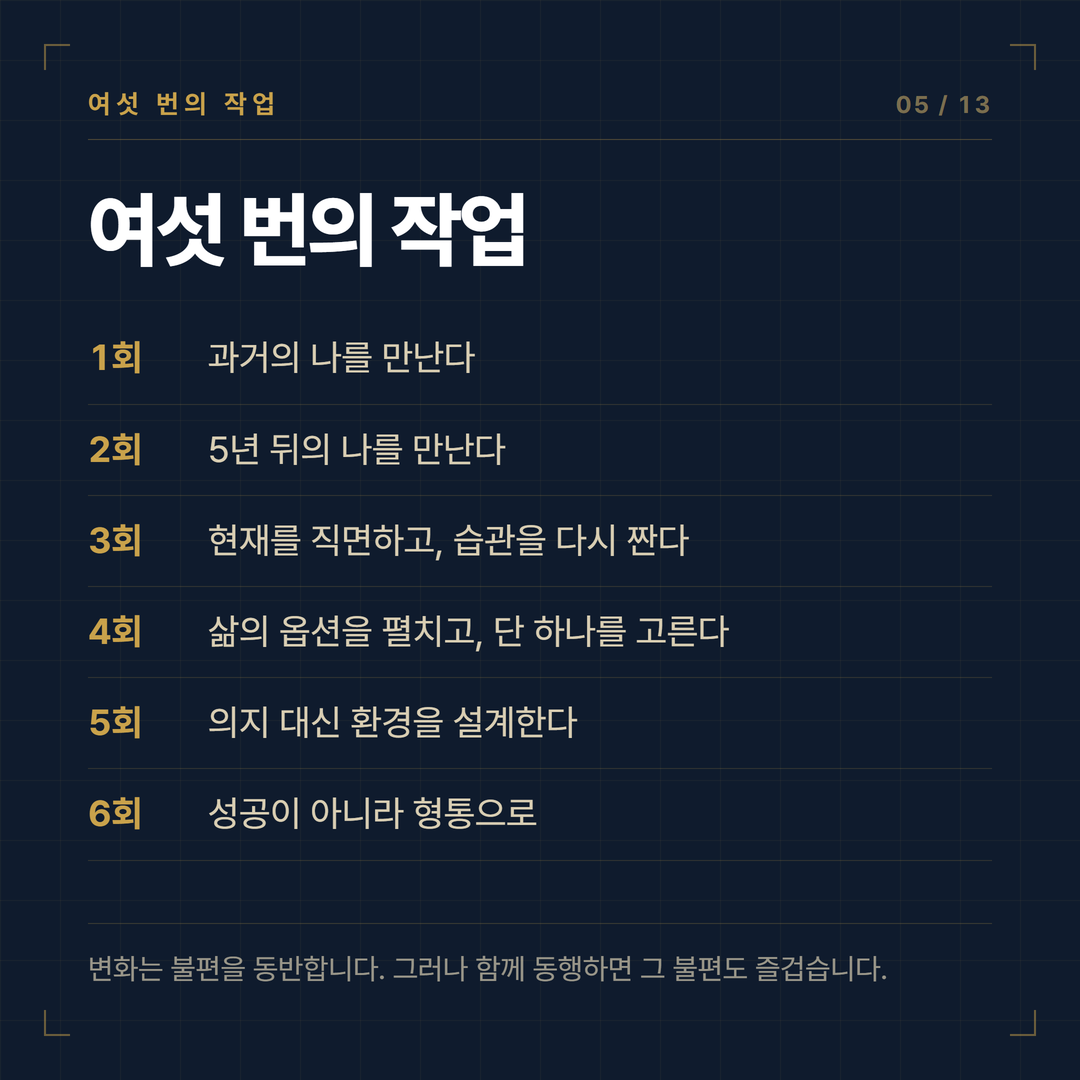
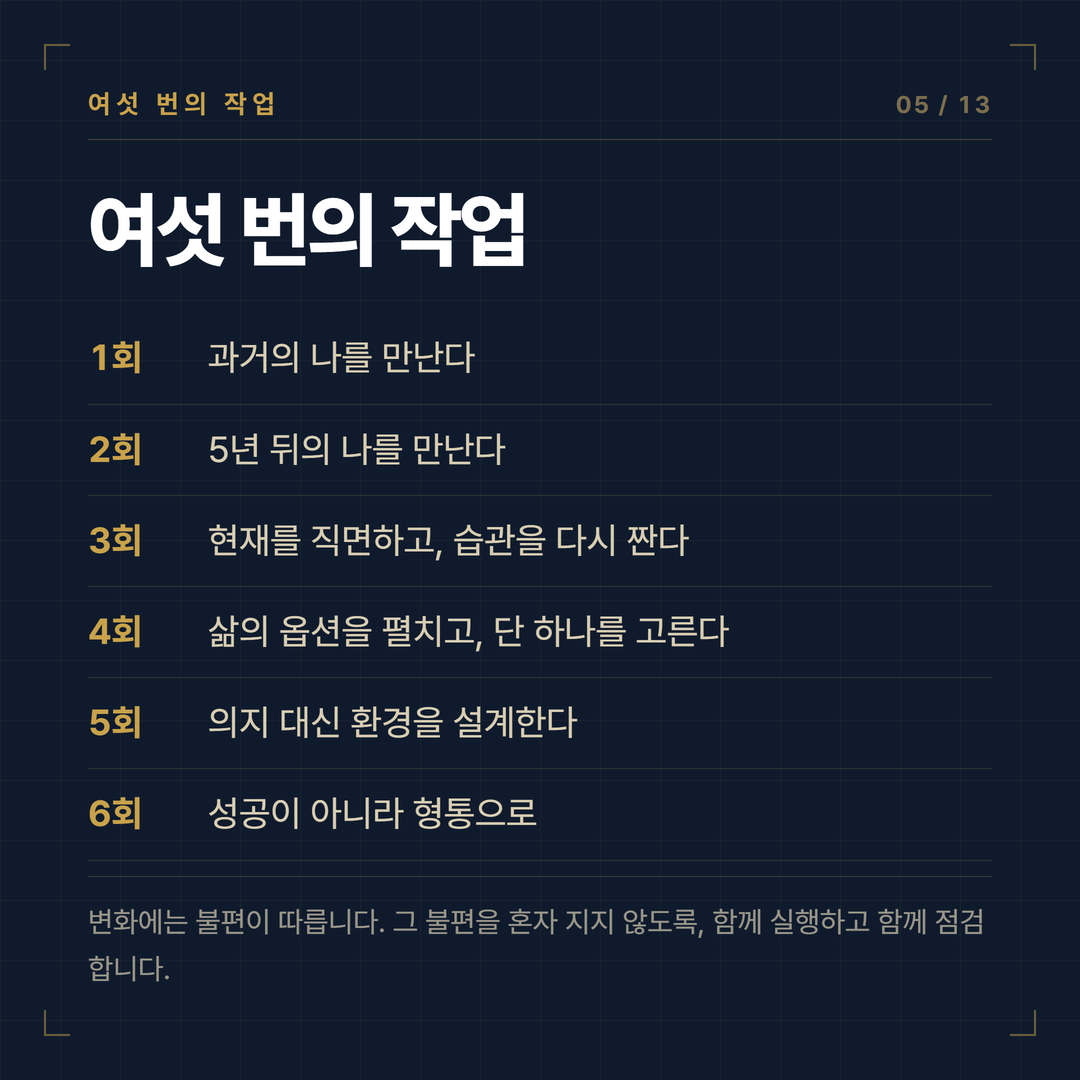
feat(copy): §2 모집 10건 — 랜딩·시안·원고·카드 이미지 동시
표 §2 의 동시 배포 조건 그대로. 문구만 나가면 카카오톡으로 도는 카드와
랜딩이 서로 다른 말을 한다.

- R-01~R-10 을 recruit/copy.ts 에
- 같은 문장을 시안 HTML 과 모집 원고 확정본에도(정본이 셋이면 셋이 같아야 한다)
- 카드 이미지 13장 재생성 · 넘침 경고 0 · 파생 webp 4장 재생성
- R-10 대시 0 확인(링크 미리보기에 그대로 나간다)
- 코드·시안 10/10 일치 확인

★ renderCards.mjs 신설 — 이 기계에 파이썬 playwright 가 없다.
  원본 render_cards.py 의 규칙을 한 줄도 바꾸지 않고 옮겼다(배율·껍데기 숨김·
  2배 후 축소·fonts.ready·넘침 재검사).
★ recruit-cards.mjs 의 cards.ts 경로가 U-1 이후 낡아 있었다 — 고쳤다.

Changed region(s): [[0.0611, 0.825, 0.9167, 0.9167]]

diff --git a/src/app/(public)/recruit/copy.ts b/src/app/(public)/recruit/copy.ts
@@ -19,14 +19,14 @@ export const PROBLEM = {
   title: ['계획은', '매년 세웠다'],
   lead: ['새해마다 목표를 적는다.', '3월이면 사라진다.'],
   body: ['작년에도 그랬고,', '올해도 그러고 있다.'],
-  emph: '의지가 약해서가 아닙니다.',
+  emph: '의지의 문제가 아닙니다.',
   title2: ['방향이 없으면', '속도는 의미가 없다'],
   marks: [
     '무엇을 할지는 알겠는데, 왜 하는지가 흐릿하다',
     '하루가 바쁜데 손에 남는 것이 없다',
     '"5년 뒤에 어떻게 되고 싶으세요" 앞에서 말이 막힌다',
   ],
-  closing: '게으름의 문제가 아니라',
+  closing: '게으름이 아니라',
   closingGold: '설계의 문제입니다.',
 } as const;
 
@@ -39,7 +39,7 @@ export const WHAT = {
     { term: '설계도', text: '삶의 5대 영역에 대한 구체적인 목표' },
   ],
   lead: '6주 동안 하는 일은 하나다.',
-  leadEmph: '흐릿했던 5년 후를 가슴 뛰는 선명한 미래로 바꾸는 것.',
+  leadEmph: '흐릿한 5년 후를 오늘의 한 걸음으로 잇는 것.',
   modelLabel: '코칭 모델 GROW + F',
   modelWords: '과거 · 미래 · 현재 · 선택 · 실행 · 믿음',
   foot: '기반 도서 『퓨처나우』(이승은) · 『퓨처셀프』(벤자민 하디)',
@@ -57,7 +57,7 @@ export const JOURNEY = {
     { no: '5회', what: '의지 대신 환경을 설계한다' },
     { no: '6회', what: '성공이 아니라 형통으로' },
   ],
-  foot: '변화는 불편을 동반합니다. 그러나 함께 동행하면 그 불편도 즐겁습니다.',
+  foot: '변화에는 불편이 따릅니다. 그 불편을 혼자 지지 않도록, 함께 실행하고 함께 점검합니다.',
 } as const;
 
 /** 카드 6 — 무엇이 남는가. strong 구간을 데이터로 나눠 둔다(마크업에 문장을 쪼개 넣지 않으려고). */
@@ -72,7 +72,7 @@ export const RESULT = {
     { pre: '의지 없이도 굴러가는 ', strong: '환경 설계도', post: '' },
     { pre: '결심이 아니라 ', strong: '행동으로 남은 6주', post: '' },
   ],
-  foot: '워크북은 증정합니다. 인생의 나침반이 되어 줄 것입니다.',
+  foot: '워크북은 6주 동안의 생각과 선택을 한곳에 남기는 도구입니다.',
 } as const;
 
 /** 카드 7 — 1기 참여자의 말 */
@@ -89,19 +89,19 @@ export const VOICES = {
 /** 카드 8 — 온라인 동행 */
 export const ONLINE = {
   eyebrow: '온라인 동행',
-  title: '혼자 걷게 두지 않는다',
+  title: '같은 방향으로 함께 걷는다',
   blocks: [
     {
       head: '시작 전 · 사전 체크',
-      body: '편안히 마음을 나누도록 설계된 질문들. 인도자가 당신이 지금 어디에 서 있는지 먼저 읽고 시작한다. 10명만 받는 이유가 여기에 있다.',
+      body: '시작 전, 지금의 자리와 바라는 변화를 정리한다. 인도자는 이 기록을 읽고 첫 모임을 준비한다. 10명만 받는 이유가 여기에 있다.',
     },
     {
       head: '매 회차 뒤 · 갈무리',
-      body: '모임에서 만든 것을 온라인에 남긴다. 지난주에 정한 한 걸음이 이번 주 화면에 다시 올라온다.',
+      body: '모임에서 정한 것을 갈무리에 기록한다. 지난주에 정한 한 걸음이 이번 주 화면에 다시 올라온다.',
     },
     {
       head: '6주 뒤 · 마무리 체크',
-      body: '시작과 마무리를 나란히 놓는다. 느낌이 아니라 기록으로 확인한다.',
+      body: '시작과 마무리의 기록을 나란히 놓고, 변화의 방향을 확인합니다.',
     },
   ],
   foot: '적으신 내용은 세미나 인도자와 운영자만 봅니다.',
@@ -179,5 +179,5 @@ export const SITE_ORIGIN = 'https://future.yebom.org';
 /** 브라우저 탭·카톡 링크 미리보기(발주서 §3.7). */
 export const META = {
   title: '퓨처나우 예봄 2기 참가 신청',
-  description: '꿈꾸는 미래를 지금 살자 — 6주 셀프코칭 세미나. 선착순 10명.',
+  description: '꿈꾸는 미래를 지금 살자 · 6주 셀프코칭 세미나 · 선착순 10명',
 } as const;

diff --git a/src/app/(public)/recruit/recruit.test.ts b/src/app/(public)/recruit/recruit.test.ts
@@ -268,7 +268,9 @@ describe('참여자 표면 금지어', () => {
 describe('메타 — 카톡 링크 미리보기 (발주서 §3.7)', () => {
   it('제목·설명이 발주서 원문이다', () => {
     expect(META.title).toBe('퓨처나우 예봄 2기 참가 신청');
-    expect(META.description).toBe('꿈꾸는 미래를 지금 살자 — 6주 셀프코칭 세미나. 선착순 10명.');
+        // **R-10 으로 바뀌었다** — 대시를 쓰지 않는다(카카오톡 링크 미리보기에 그대로 노출된다).
+    expect(META.description).toBe('꿈꾸는 미래를 지금 살자 · 6주 셀프코칭 세미나 · 선착순 10명');
+    expect(META.description).not.toMatch(/[—–]/);
   });
 
   it('metadataBase 가 절대 URL 이다 — 없으면 미리보기 이미지가 localhost 를 가리킨다', () => {

diff --git a/docs/tasks/예봄2기_모집카드뉴스_원고_확정 (1).md b/docs/tasks/예봄2기_모집카드뉴스_원고_확정 (1).md
@@ -50,7 +50,7 @@
 작년에도 그랬고,
 올해도 그러고 있다.
 
-**의지가 약해서가 아닙니다.**
+**의지의 문제가 아닙니다.**
 
 ---
 
@@ -63,7 +63,7 @@
 - 하루가 바쁜데 손에 남는 것이 없다
 - "5년 뒤에 어떻게 되고 싶으세요" 앞에서 말이 막힌다
 
-게으름의 문제가 아니라
+게으름이 아니라
 **설계의 문제입니다.**
 
 ---
@@ -77,7 +77,7 @@
 설계도 : 삶의 5대 영역에 대한 구체적인 목표
 
 6주 동안 하는 일은 하나다.
-**흐릿했던 5년 후를 가슴 뛰는 선명한 미래로 바꾸는 것.**
+**흐릿한 5년 후를 오늘의 한 걸음으로 잇는 것.**
 
 코칭 모델 GROW + F
 과거 · 미래 · 현재 · 선택 · 실행 · 믿음
@@ -101,7 +101,7 @@
 | 5회 | 의지 대신 환경을 설계한다 |
 | 6회 | 성공이 아니라 형통으로 |
 
-〔하단 작은 글씨〕 변화는 불편을 동반합니다. 그러나 함께 동행하면 그 불편도 즐겁습니다.
+〔하단 작은 글씨〕 변화에는 불편이 따릅니다. 그 불편을 혼자 지지 않도록, 함께 실행하고 함께 점검합니다.
 
 ---
 
@@ -116,7 +116,7 @@
 - 의지 없이도 굴러가는 **환경 설계도**
 - 결심이 아니라 **행동으로 남은 6주**
 
-〔하단 작은 글씨〕 워크북은 증정합니다. 인생의 나침반이 되어 줄 것입니다.
+〔하단 작은 글씨〕 워크북은 6주 동안의 생각과 선택을 한곳에 남기는 도구입니다.
 
 ---
 
@@ -140,16 +140,16 @@
 
 ## 카드 8 · 온라인 동행
 
-**혼자 걷게 두지 않는다**
+**같은 방향으로 함께 걷는다**
 
 **시작 전 · 사전 체크**
-편안히 마음을 나누도록 설계된 질문들. 인도자가 당신이 지금 어디에 서 있는지 먼저 읽고 시작한다. 10명만 받는 이유가 여기에 있다.
+시작 전, 지금의 자리와 바라는 변화를 정리한다. 인도자는 이 기록을 읽고 첫 모임을 준비한다. 10명만 받는 이유가 여기에 있다.
 
 **매 회차 뒤 · 갈무리**
-모임에서 만든 것을 온라인에 남긴다. 지난주에 정한 한 걸음이 이번 주 화면에 다시 올라온다.
+모임에서 정한 것을 갈무리에 기록한다. 지난주에 정한 한 걸음이 이번 주 화면에 다시 올라온다.
 
 **6주 뒤 · 마무리 체크**
-시작과 마무리를 나란히 놓는다. 느낌이 아니라 기록으로 확인한다.
+시작과 마무리의 기록을 나란히 놓고, 변화의 방향을 확인합니다.
 
 〔하단 작은 글씨〕 적으신 내용은 세미나 인도자와 운영자만 봅니다.
 
